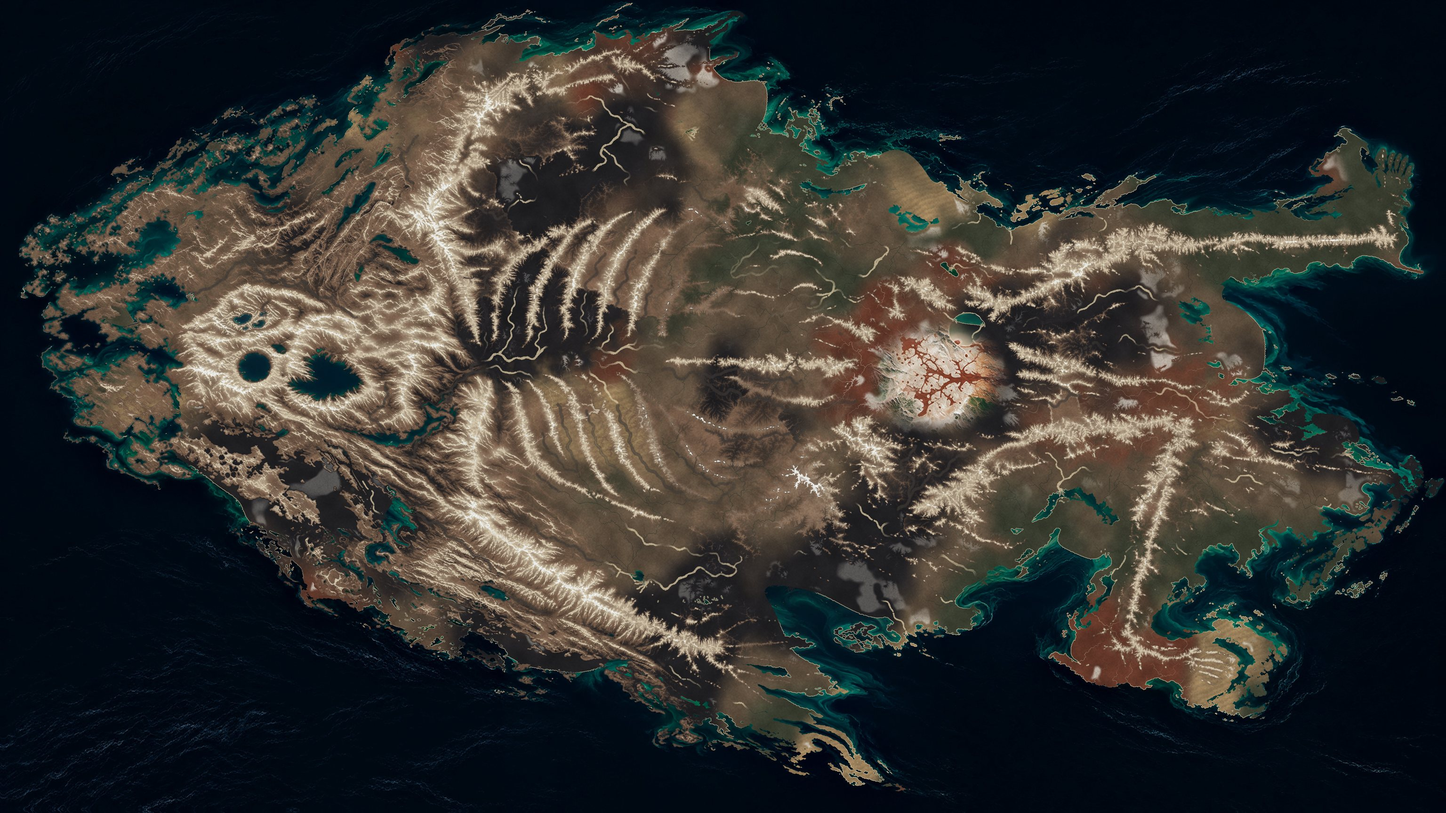
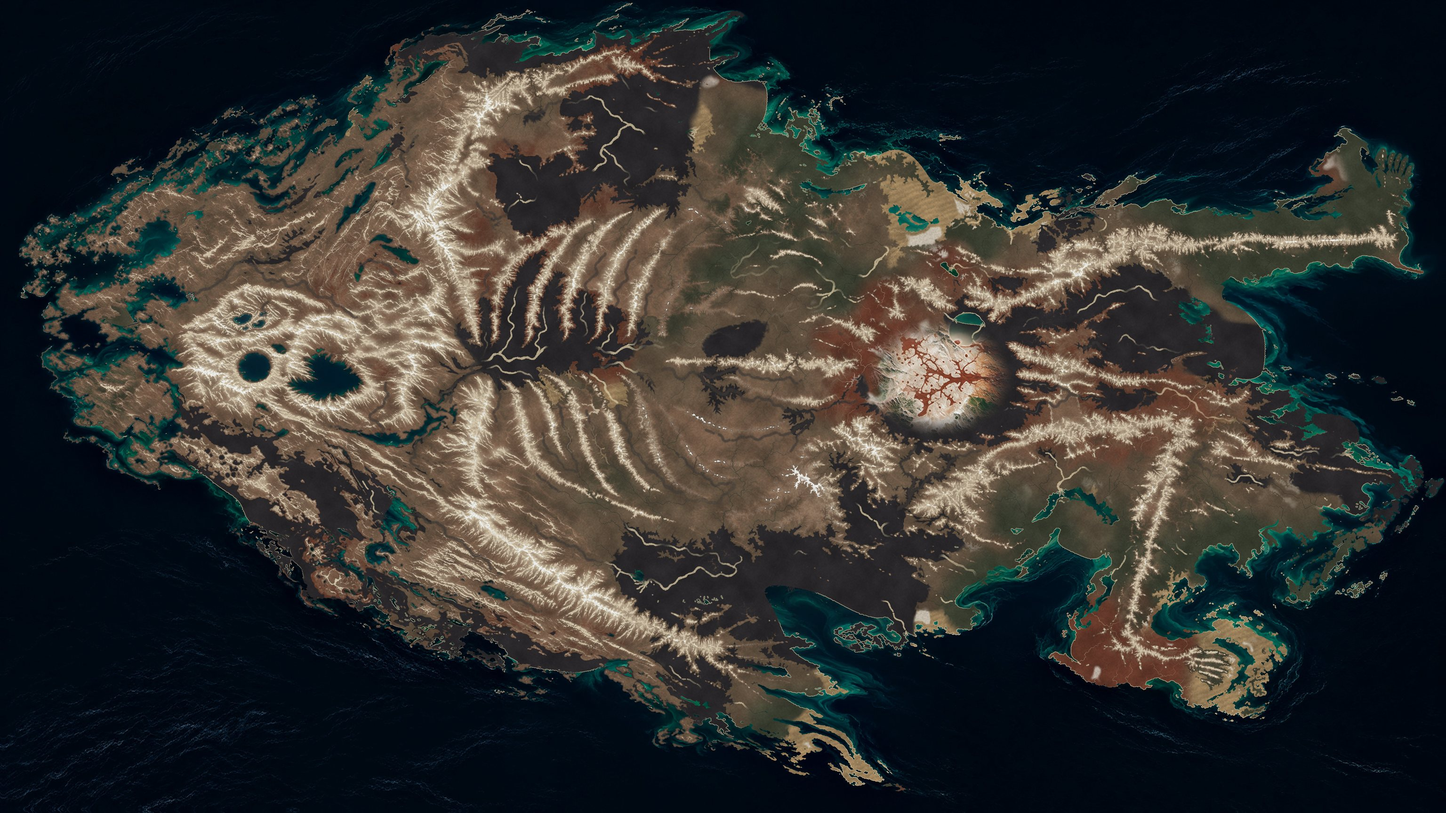
Reveal body: lava and dune fields stand to a contour, the body's pictures read finer from orbit

diff --git a/src/places/reveal/land/index.ts b/src/places/reveal/land/index.ts
@@ -9,7 +9,7 @@ import type { Context, Piece } from '../shared/context';
 import { NOISE_GLSL, RIG_GLSL, RIG_VERTEX } from '../shared/glsl';
 import { WEATHER_GLSL } from '../shared/weather';
 import { LEVELS, pairFor, type Level } from './levels';
-import { BODY_CAST, BODY_COARSE, BODY_GROUND, BODY_LIGHT, BODY_READ, BODY_UNIFORMS } from './body';
+import { BODY_BIAS, BODY_CAST, BODY_COARSE, BODY_GROUND, BODY_LIGHT, BODY_READ, BODY_UNIFORMS } from './body';
 
 // The window of the first approved picture in the master (references/approved/7-reveal/pullback.json): the bed map covers it.
 const BED = { x: 1126.18, y: 1498.28, w: 293.34, h: 165.09 };
@@ -18,9 +18,11 @@ const BASINS = { x: 737.71, y: 1279.65, w: 1070.28, h: 602.35 };
 // The feeder of the lake, traced on that picture from its head in the valley to its mouth on the upper left shore: master px.
 const FEEDER: [number, number][] = [[1224.0, 1440.0], [1226.8, 1468.5], [1221.0, 1484.0], [1218.81, 1498.28], [1220.92, 1508.81], [1224.25, 1518.81], [1229.87, 1524.95], [1233.2, 1532.14], [1234.95, 1542.32], [1235.3, 1550.91], [1233.55, 1558.81], [1233.9, 1562.4]];
 
-// How strongly the relief of the body is lit from orbit (1 is the old maps' strength), and how far its ranges throw their shadows.
+// How strongly the relief of the body is lit from orbit (1 is the old maps' strength), how far its ranges throw their shadows, and
+// how much of the old maps' coarser reading from orbit is taken off for the body's pictures.
 const BODY_RELIEF = Number(import.meta.env.VITE_BODY_RELIEF ?? 1.6);
 const BODY_SHADOW = Number(import.meta.env.VITE_BODY_SHADOW ?? 1.0);
+const BODY_FINE = Number(import.meta.env.VITE_BODY_FINE ?? 0.7);
 
 export const PARTS = ['sea', 'continent', 'salt', 'lake', 'lava'] as const;
 
@@ -164,6 +166,7 @@ void main() {
   // (From orbit a texel of the wide map is about a pixel, and its grain sparkled from pixel to pixel: there the maps are read a
   // little coarser, at the size the picture can hold.)
   float orbitBias = 0.6 * smoothstep(700.0, 1300.0, uViewKm);
+${BODY_BIAS}
   vec3 ground = readWide(uMapWide, clamp(uvWide, 0.0, 1.0), orbitBias).rgb;
   vec3 relief = readWide(uReliefWide, clamp(uvWide, 0.0, 1.0), orbitBias).rgb;
   // (Below 100 km the baked light, the surf, the shelf and the places are not in the picture: they are not read.)
@@ -1320,7 +1323,7 @@ export function create(ctx: Context): Piece {
   uniforms.uBodyMap = { value: bodyMap };
   uniforms.uBodyRelief = { value: bodyRelief };
   uniforms.uBodyLight = { value: bodyLight };
-  uniforms.uBodyRelief2 = { value: new THREE.Vector2(BODY_RELIEF, BODY_SHADOW) };
+  uniforms.uBodyRelief2 = { value: new THREE.Vector3(BODY_RELIEF, BODY_SHADOW, BODY_FINE) };
   const crossing = new THREE.ShaderMaterial({ uniforms, vertexShader: RIG_VERTEX, fragmentShader: FRAGMENT, defines: { ORBIT: 1, BODY: 1 } });
   const whole = new THREE.ShaderMaterial({ uniforms, vertexShader: RIG_VERTEX, fragmentShader: FRAGMENT, defines: { ORBIT: 1, BODY: 1, BODYONLY: 1 } });
   const wholeNight = new THREE.ShaderMaterial({ uniforms, vertexShader: RIG_VERTEX, fragmentShader: FRAGMENT, defines: { ORBIT: 1, NIGHT: 1, BODY: 1, BODYONLY: 1 } });

diff --git a/src/places/reveal/land/body.ts b/src/places/reveal/land/body.ts
@@ -11,8 +11,15 @@ uniform sampler2D uBodyMap;
 uniform sampler2D uBodyRelief;
 uniform sampler2D uBodyLight;
 #endif
-// How strongly the relief of the body is lit from orbit, and how long its ranges' shadows are drawn.
-uniform vec2 uBodyRelief2;
+// How strongly the relief of the body is lit from orbit, how long its ranges' shadows are drawn, and how much finer it is read.
+uniform vec3 uBodyRelief2;
+`;
+
+/** The body's pictures are worked at the size the picture holds: from orbit they are read nearly at their own grain. */
+export const BODY_BIAS = /* glsl */ `
+#ifdef BODY
+  orbitBias *= 1.0 - uBodyRelief2.z * smoothstep(940.0, 1380.0, uViewKm);
+#endif
 `;
 
 /** After the maps are read: how far the body has come together, and its own colour, relief and light. */

diff --git a/assets-src/reveal/land/body/make_body.py b/assets-src/reveal/land/body/make_body.py
@@ -284,11 +284,17 @@ def outputs():
     near_heart = np.exp(-(((fx - HEART[0]) / 330.0) ** 2 + ((fy - HEART[1]) / 250.0) ** 2))
     near_throat = np.exp(-(((fx - THROAT[0] + 50.0) / 220.0) ** 2 + ((fy - THROAT[1] + 25.0) / 260.0) ** 2))
     east_hips = np.exp(-(((fx - PAN[0] - 420.0) / 520.0) ** 2 + ((fy - PAN[1] - 60.0) / 210.0) ** 2))
-    w_lava = np.clip(smooth(0.56, 0.7, p1) + 0.95 * smooth(0.25, 0.6, near_heart * (0.6 + 0.8 * mott)), 0.0, 1.0)
+    # (A lava plain is a flood: it stands to a level, fills the low ground of its province and laps up the valleys of the ranges
+    # round it, so its edge is a contour of the land, sharp, with bays and islands, and no soft patch. A dune field lies in a
+    # basin the same way, its edge against the rock sharp and its edge on the plain soft.)
+    e_low = ndimage.gaussian_filter(e, 1.2 * px)
+    s_lava = np.clip(smooth(0.5, 0.7, p1) + 0.95 * smooth(0.25, 0.6, near_heart * (0.6 + 0.8 * mott)), 0.0, 1.0)
+    w_lava = smooth(-0.008, 0.008, 0.015 + 0.15 * s_lava + 0.03 * (mott - 0.5) - e_low) * smooth(0.0, 0.12, s_lava)
     w_rust = np.clip(smooth(0.57, 0.7, p3) + smooth(0.3, 0.7, near_throat) + 0.8 * smooth(0.3, 0.7, east_hips * (0.5 + mott)), 0.0, 1.0) * (1.0 - w_lava)
-    w_dune = smooth(0.56, 0.7, p2) * (1.0 - w_lava) * (1.0 - w_rust)
+    s_dune = smooth(0.5, 0.7, p2)
+    w_dune = smooth(-0.008, 0.008, 0.01 + 0.1 * s_dune + 0.03 * (mott - 0.5) - e_low) * smooth(0.0, 0.25, s_dune) * (1.0 - w_lava) * (1.0 - 0.7 * w_rust)
     w_olive = smooth(0.5, 0.64, 1.0 - p1) * (1.0 - w_dune) * (1.0 - w_rust)
-    lava = srgb(31, 30, 33)
+    lava = srgb(40, 38, 40)
     rust = srgb(98, 55, 41)
     dune = srgb(146, 121, 86)
     olive = srgb(57, 61, 47)
@@ -313,7 +319,7 @@ def outputs():
     apron = smooth(0.1, 0.22, broad) * (1.0 - smooth(0.22, 0.4, broad)) * (1.0 - smooth(0.06, 0.2, slope)) * (1.0 - w_lava)
     country = mixc(country, fan * 1.18, 0.55 * apron * smooth(0.4, 0.6, mott))
     # Salt pans in the lowest closed ground of the dry provinces.
-    pan = (1.0 - smooth(0.03, 0.07, e)) * smooth(0.6, 0.72, fbm((H, W), rng, 70 * px, 3)) * (w_dune + w_rust + 0.4 * (1.0 - w_olive)) * smooth(6.0, 14.0, d_shore)
+    pan = (1.0 - smooth(0.03, 0.07, e)) * smooth(0.6, 0.72, fbm((H, W), rng, 70 * px, 3)) * (w_dune + w_rust + 0.4 * (1.0 - w_olive)) * (1.0 - w_lava) * smooth(6.0, 14.0, d_shore)
     country = mixc(country, salt, 0.8 * np.clip(pan, 0.0, 1.0))
     # Rivers: where much land drains through a cell the valley floor is damp and dark, or a pale dry wash in the dry provinces.
     channel = smooth(2.6, 3.8, wet) * (1.0 - smooth(0.25, 0.5, e))
